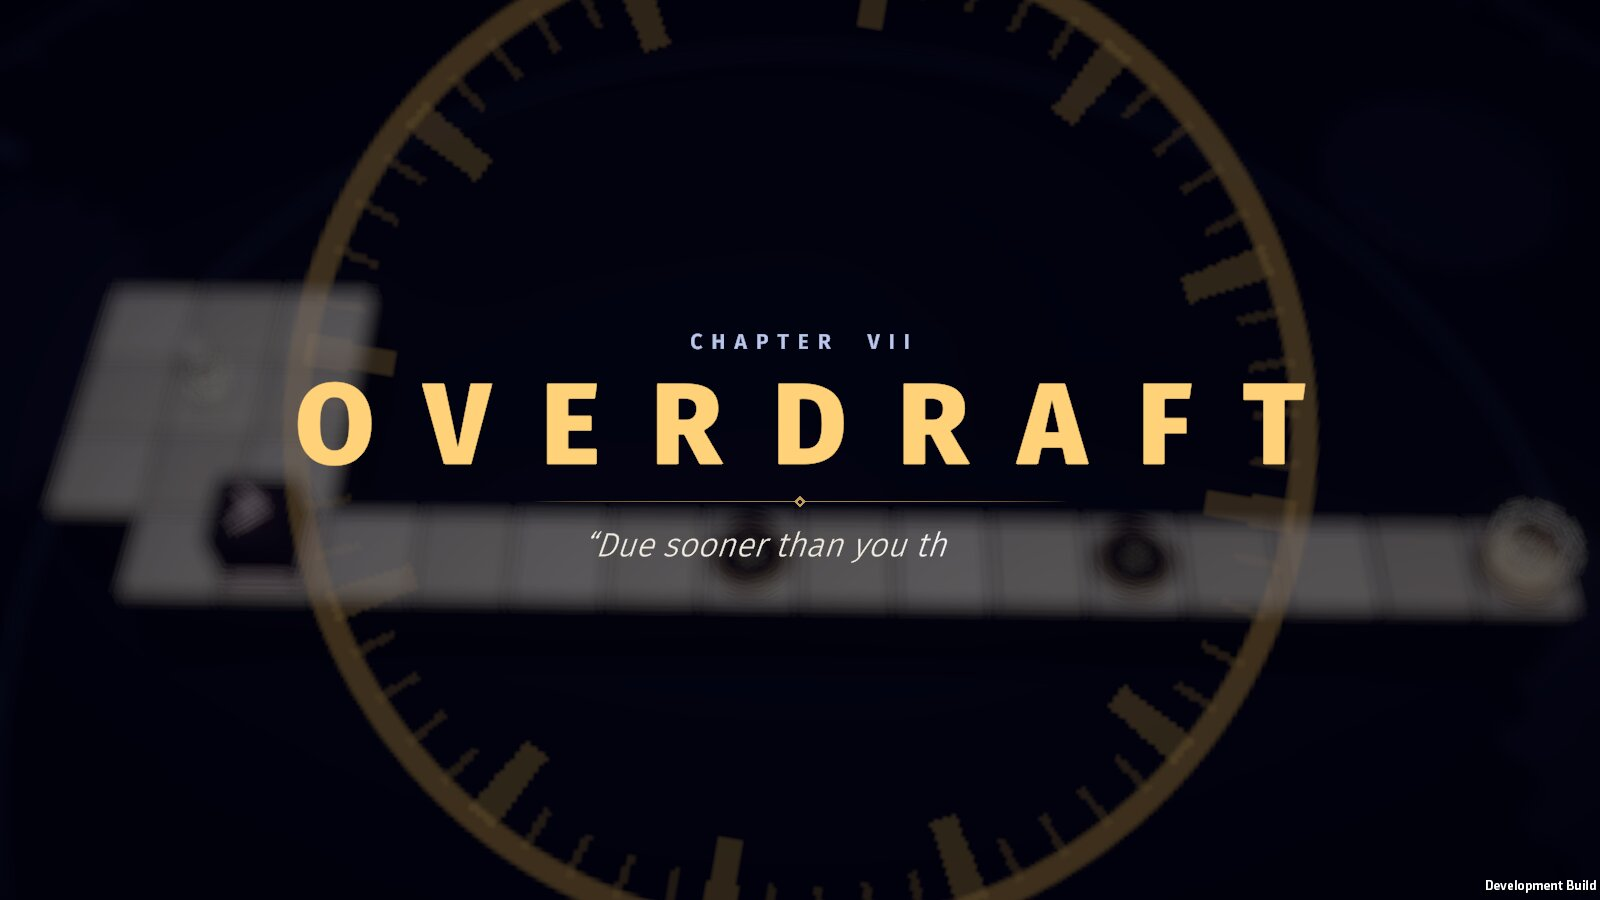
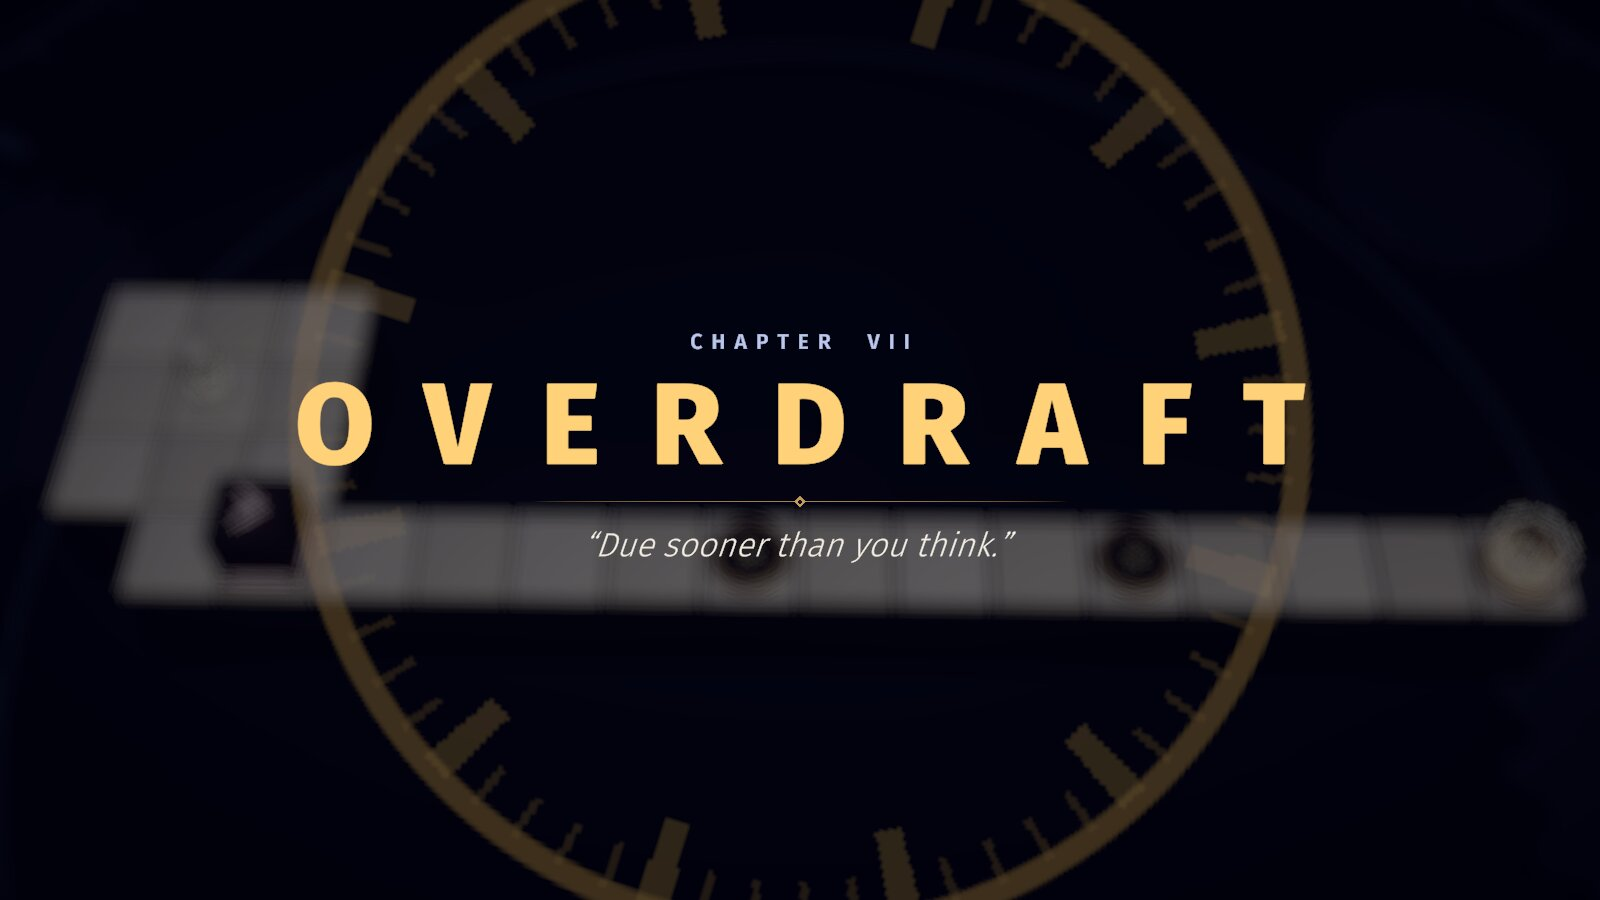
Docs: round 2 results; README status for chapter VII, the new checks and bot passes
Also: the input bot's gamepad pass waits for full Focus before pressing A (at the release build's
~110 fps it raced the blend, as the rebind pass once did), and the chapter VII card screenshot is
retaken from the release run, with the epigraph fully typed.

diff --git a/Assets/Scripts/Game/GameRoot.InputBot.cs b/Assets/Scripts/Game/GameRoot.InputBot.cs
@@ -389,7 +389,7 @@ namespace BorrowedSeconds.Game
                 yield return null;
                 focusSeen = Mathf.Max(focusSeen, Session.FocusBlend);
                 var s = Session.Cur;
-                if (Session.Aim == 0 && (s.SIdx[0] >= 13 || (s.SIdx[0] == 12 && s.SDir[0] > 0)))
+                if (focusSeen >= 0.9f && Session.Aim == 0 && (s.SIdx[0] >= 13 || (s.SIdx[0] == 12 && s.SDir[0] > 0)))
                 {
                     ScreenCapture.CaptureScreenshot(Path.Combine(dir, "pad_2_aim-focus.png"));
                     yield return PadTap(GamepadButton.South);

diff --git a/README.md b/README.md
@@ -174,7 +174,7 @@ Everything generated is checked in, so none of the following is needed just to b
 | Audio | `Tools/audio/synth.sh` (or `sfx`, `music`, or one name) | Every effect and the four music loops, synthesised with numpy (via Blender's bundled Python). About 2 minutes. |
 | Levels | Edit `Tools/lab/cXY.json`, then `python3 Tools/lab/assemble.py` | `python3 Tools/lab/lab.py Tools/lab/c15.json` solves one design without touching the game. |
 | Proofs and replays | `Tools/validate.sh` (or `--level 4-5`, or `--quick`) | Proves every level and writes `solutions.json`. Level 4-5 searches up to 150M states and needs a lot of RAM. |
-| Unit tests | `unity test . --mode EditMode`, or the Test Runner | 94 EditMode tests. They replay every saved solution under Unity's Mono runtime and check that each one wins at exactly its par tick, and check that the automatic rewind after a death always hands control back. |
+| Unit tests | `unity test . --mode EditMode`, or the Test Runner | 109 EditMode tests. They replay every saved solution under Unity's Mono runtime and check that each one wins at exactly its par tick, and check that the automatic rewind after a death always hands control back. |
 | Self-test | `Tools/devcap.sh Builds/capture` | Development build, then autoplays all 35 levels and prints PASS/FAIL for each. |
 | Controls test | `Tools/inputbot.sh` | Plays 1-1 through virtual keyboard and mouse devices, then again on a virtual gamepad (D-pad, stick, RB aim, LT focus, A borrow), and drives the hint toggle, pause menu and *Watch solution* with the pad. |
 | Behaviour checks | `Tools/checks.sh [dir] [dev] [-bsOnly name]` | The built game dies, rewinds and opens menus on purpose, and prints PASS/FAIL for each check. It also records an audio event log over three levels, and `Tools/audio/balance.py` measures how far each key stinger sits above the music. |
@@ -223,13 +223,13 @@ Built with Unity 6 (URP, Input System, TextMesh Pro), Blender 4.5, Python with n
 Version 0.1.0. The game is complete and playable from start to finish, but it's young. Here's what is and isn't verified:
 
 - ✅ The release build autoplays all 35 levels from the solver's replays and wins every one (`Tools/capture.sh`), so the in-game loop matches the solver tick for tick.
-- ✅ The solver proves every level solvable and proves each "needs a borrow" and "needs the debt" claim. 94 EditMode tests pass.
-- ✅ `Tools/checks.sh` passes on the release build. The game dies by thawing inside a hazard and gets control back, pauses on a (simulated) focus loss, folds and unfolds hints, wires plates to gates and lasers, slows to 70 % game speed, and plays *Watch solution* at par on all 30 levels without touching progress. The autopilot also wins every level at its exact par tick at 50 % game speed.
-- ✅ The input bot wins 1-1 through the real input path. On the development machine (AMD Radeon 8060S iGPU, 1600×900), the busiest levels run at 300+ fps.
+- ✅ The solver proves every level solvable and proves each "needs a borrow" and "needs the debt" claim. 109 EditMode tests pass.
+- ✅ `Tools/checks.sh` passes on the release build. The game dies by thawing inside a hazard and gets control back, pauses on a (simulated) focus loss, folds and unfolds hints, wires plates to gates and lasers, slows to 70 % game speed, enforces the key-binding rules, opens every chapter on its card, and plays *Watch solution* at par on all 35 levels without touching progress. It also records the audio mix for `balance.py`. The autopilot also wins every level at its exact par tick at 50 % game speed.
+- ✅ The input bot wins 1-1 through the real input path four ways: keyboard and mouse, a virtual gamepad (which also drives the hint, the pause menu and *Watch solution*), keys rebound through *Settings > Controls*, and a hold-to-restart check. On the development machine (AMD Radeon 8060S iGPU, 1600×900), the busiest levels run at 300+ fps.
 - ⚠ **Some new paths were verified by script, not by hand.** No real window was alt-tabbed to test the focus-loss pause; the check calls the same handler. Gamepad play, including the hint (Select), the pause menu and leaving *Watch solution* (B), is verified on a *virtual* gamepad by the input bot, but not on real controller hardware.
 - ⚠ **Not playtested by humans yet.** Difficulty and timing margins come from the solver, not from people. Some levels may be harder than they look.
-- ⚠ **The audio mix hasn't been tuned by ear.** It is balanced by measurement instead. The music now ducks under the key stingers (borrow, freeze, thaw, latch, exit, win, default), stinger pile-ups are trimmed, and the music sits 2 dB lower. On a scripted run, `balance.py` measures every key stinger at least +5 dB over the music (median +10.6 dB; before: median +3.5 dB, with borrow 1 dB *under* the music), and the mix peaks at 0.85 instead of 0.97. Nobody has listened to it yet.
+- ⚠ **The audio mix hasn't been tuned by ear.** It is balanced by measurement instead. The music now ducks under the key stingers (borrow, freeze, thaw, latch, exit, win, default), stinger pile-ups are trimmed, and the music sits 2 dB lower. On the same scripted run, `balance.py` measures every key stinger at least +5 dB over the music (median +10.1 to +11.0 dB across runs; before: median +3.5 dB, with borrow 1 dB *under* the music), and the mix peaks at 0.84 to 0.89 instead of 0.97. Nobody has listened to it yet.
 - ⚠ **Released for Linux only.** `Tools/unity.sh build-mac` builds a universal macOS app (Intel and Apple silicon, Mono, bundle id `com.nearbycoder.borrowedseconds`). Unity ad-hoc signs it, but it isn't Developer-ID signed or notarized, and it has never been run on a Mac, so it isn't published. Windows needs Unity's Windows Build Support module, which isn't installed on the build machine; `Tools/unity.sh build-windows` is ready for it but untested. There's no web build.
-- ⚠ **Work in progress beyond chapter VII.** Chapters VIII–XII (a 60-level total) are named in `LevelCatalog.cs` (*Amortize*, *Exposure*, *Maturity*, *Arbitrage*, *Solvency*) but not designed yet; `docs/PLAN.md` only covers the first four chapters. One finished design for chapter VIII (8-1 *Instalments*) sits in `Tools/lab/` and isn't in the game. Chapter VII's five levels are solver-proven but, like the rest, have never been played by a person; two of them (7-2, 7-4) came out of an automated sweep and were checked only by the solver and by watching their replays.
+- ⚠ **Work in progress beyond chapter VII.** Chapters VIII–XII (a 60-level total) are named in `LevelCatalog.cs` (*Amortize*, *Exposure*, *Maturity*, *Arbitrage*, *Solvency*) but not designed yet; `docs/PLAN.md` only covers the first four chapters. One finished design for chapter VIII (8-1 *Instalments*) sits in `Tools/lab/` and isn't in the game. Chapter VII's five levels are solver-proven but, like the rest, have never been played by a person; two of them (7-2, 7-4) came out of an automated sweep and were checked only by the solver and by screenshots of their replays in the game.
 - ⚠ **The trailer and README screenshots predate chapter VII** and round 2's interface changes (the Ledger shows 30 levels).
 - ⚠ **No license has been chosen yet.** All rights are reserved until a `LICENSE` file is added.

diff --git a/docs/IMPROVEMENTS.md b/docs/IMPROVEMENTS.md
@@ -179,3 +179,25 @@ The order runs smallest and most certain first, with the new chapter last becaus
   - The README level table and counts are updated.
 - **Verify:** the solver per level (never the full 4-5 run), tests, autopilot, checks, and screenshots of each new level and the chapter card.
 - **Fallback:** if a level can't reach these proofs in reasonable sweep time, the chapter doesn't ship (`assemble.py` only ships complete chapters) and the designs stay in `Tools/lab/` with notes.
+
+## Round 2 results
+
+All five items shipped on `improvements-2`. Final verification ran on the **release** build: autopilot 35/35 at par, `checks.sh` all PASS, the input bot's four passes PASS twice in a row, and 109/109 EditMode tests. Screenshots are in `docs/media/improvements/round2/`.
+
+| # | Item | Commit | Verification |
+|---|---|---|---|
+| — | Tool defaults moved off the shared `/tmp` | `2b0e419` | Every script now writes under `Builds/`. |
+| 1 | Audio: a music duck that actually fires, measured balance, stinger pile-up trim | `6a7baff` | `Tools/audio/balance.py` on the same scripted run, before → after. Median stinger over music +3.5 → +10.6 dB (+10.1 to +11.0 across later runs). Worst −1.3 → ≥ +5.0 dB. Borrow −1.0 → +5.5 dB. Mixed peak 0.97 → 0.84–0.89. **Not listened to.** |
+| 2 | Gamepad input bot, which found three bugs: the menu selector plate never moved, Select didn't switch the hints to the pad, and 1-1's tip named mouse controls | `fdf0b79` | The bot's gamepad pass (D-pad, stick, RB, LT, A, Select, Start, B, pause menu, *Watch solution*), including a check that the selector plate reaches the chosen row. Shots 01–03. Virtual devices only. |
+| 3 | Key rebinding (Settings > Controls), plus a fix for Esc/Start never closing the pause menu | `43f8a4a` | The bot's rebind pass goes through the real menus, then wins 1-1 on J/L/Tab/F/K, and checks the old key is dead and the hints follow. The `key-bindings` check covers swap, reserved keys, a damaged save and the JSON round trip. Shots 04–06. |
+| 4 | Hold-to-restart after 3 s; watch label clear of the sub-dial hand | `7b80c21` | The bot's restart pass: an early tap restarts, a late tap only shows the tag, a hold restarts. Shots 07–08. |
+| 5 | Chapter VII *Overdraft*, five levels (35 total) | `c8406e3` | `validate.sh --level 7-1` … `7-5` ALL OK: B and D proven, margin ±4. The 30 existing solutions are byte-identical. Tests 109/109, autopilot 35/35, *Watch solution* 35/35, chapter cards 7/7. Shots 09–13. |
+
+Notes and loose ends:
+- **How chapter VII was built.** Three of its levels (7-1, 7-3, 7-5) are the short-term designs that were already finished in `Tools/lab` (as 9-2, 9-1, 9-5). They were renumbered, and the chapter order changed so VII is *Overdraft*. The other two came from a new 160-candidate sweep (`designs/d7.py`, about 28 minutes on 4 cores, 3 passes). Two of the five ideas overlap: 7-2 and 7-4 both freeze the lane laser and let the debt hold a dial. Nobody has played any of them.
+- **Two one-off failures.** One full `checks.sh` run failed *Watch solution* on 2-3 (no win in 40 s). It didn't recur in two reruns, and the check now logs the cause if it happens again. The release input bot once failed the gamepad focus assertion because of a timing race in the bot itself (at about 110 fps it pressed A before the Focus blend reached 0.9). Fixed, and it then passed twice.
+- **Thin audio headroom.** The audio peak limit (0.90) has only about 0.01–0.06 of headroom from run to run.
+- **macOS.** The macOS build script is unchanged, but the app was not rebuilt this round.
+- **Media.** The trailer and README screenshots still show the 30-level game.
+
+Still open: human playtesting, a listen to the mix, chapters VIII–XII (8-1 is ready in the lab), WebGL, Windows (needs the module), and touch.
